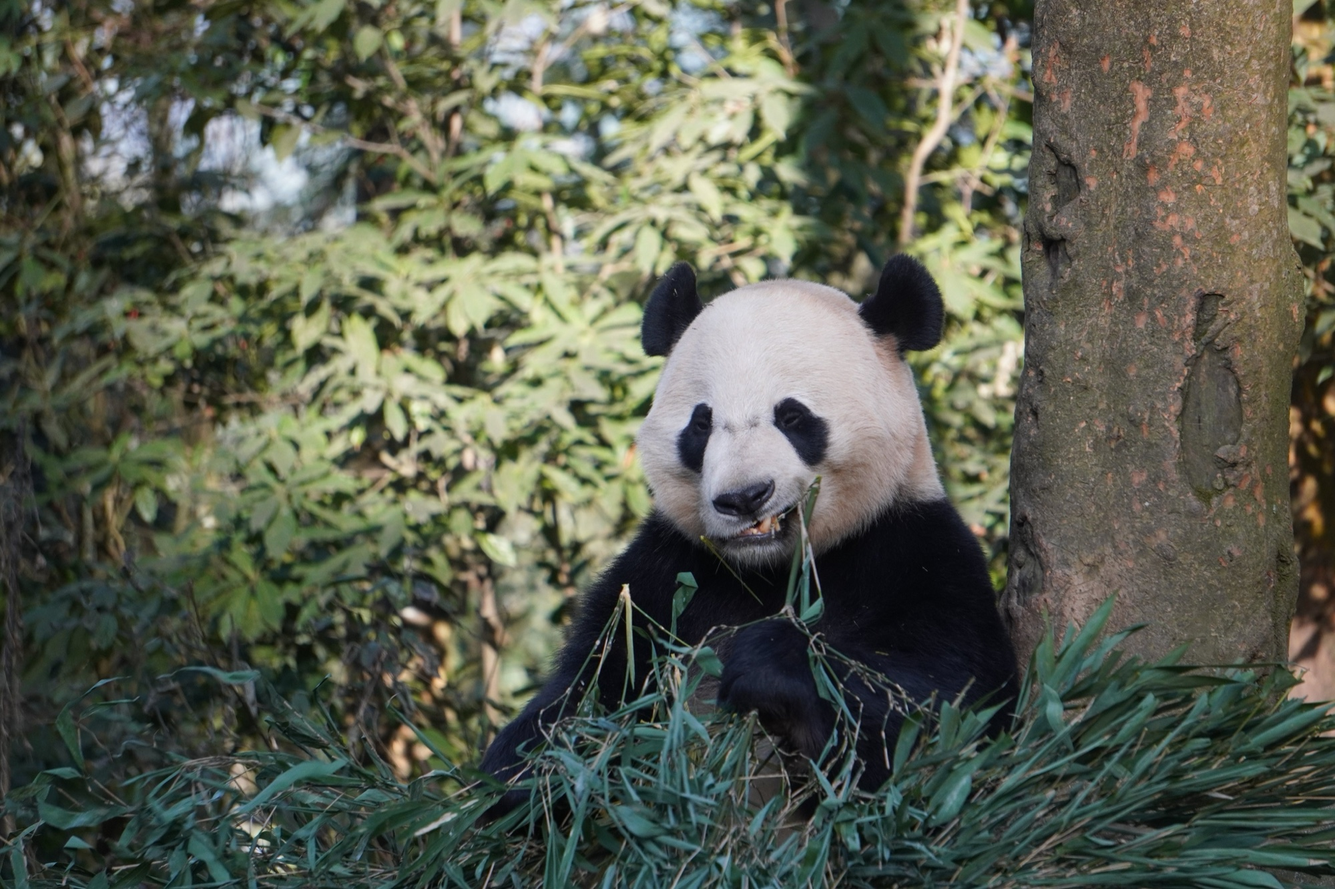
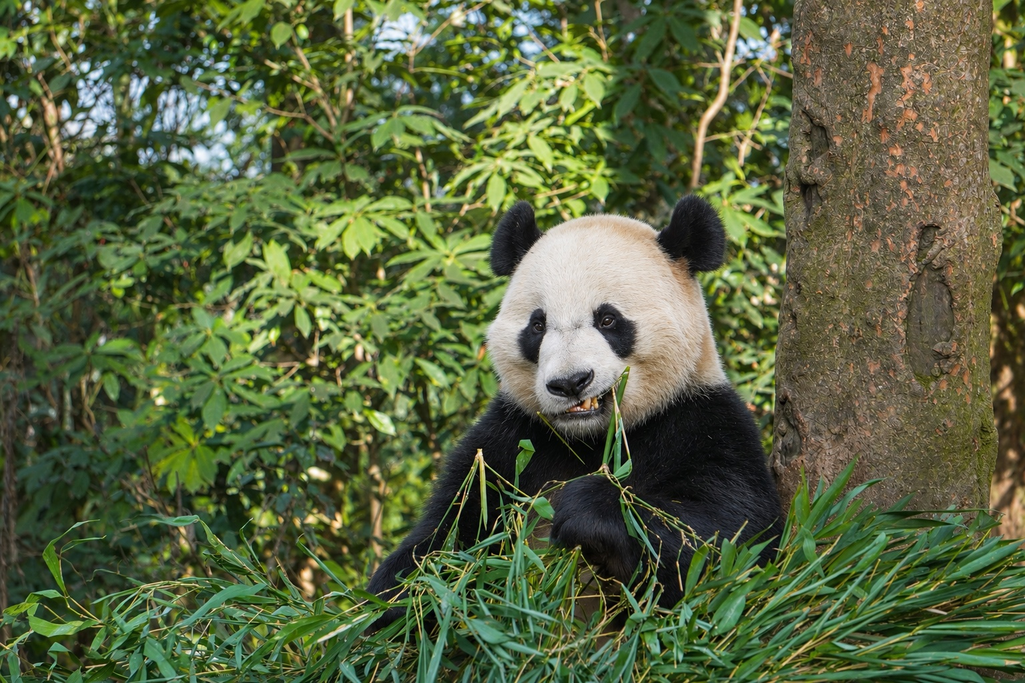
Optimize panda activity images and remove mosaics

diff --git a/shared/explore.ts b/shared/explore.ts
@@ -188,8 +188,8 @@ const farmWithVillagersGallery = [
 
 const pandaConservationAsset = '/images/explore/panda-conservation-day/processed';
 const pandaConservationGallery = [
-  '02-habitat-cleaning.jpg', '03-bamboo-team.jpg', '09-panda-cake.jpg', '10-bamboo-cleanup.jpg',
-  '11-bamboo-delivery.jpg', '12-health-monitoring.jpg', '13-young-panda-care.jpg', '05-cub-care.jpg',
+  '02-habitat-cleaning.jpg', '09-panda-cake.jpg', '11-bamboo-delivery.jpg',
+  '12-health-monitoring.jpg', '13-young-panda-care.jpg', '05-cub-care.jpg',
   '07-panda-bamboo.jpg', '08-panda-bamboo-habitat.jpg', '14-cub-tree.jpg', '15-bifengxia-cub.jpg',
   '16-panda-eating.jpg', '04-panda-feeding.jpg', '06-cub-special-care.jpg',
 ].map(name => `${pandaConservationAsset}/${name}`);
